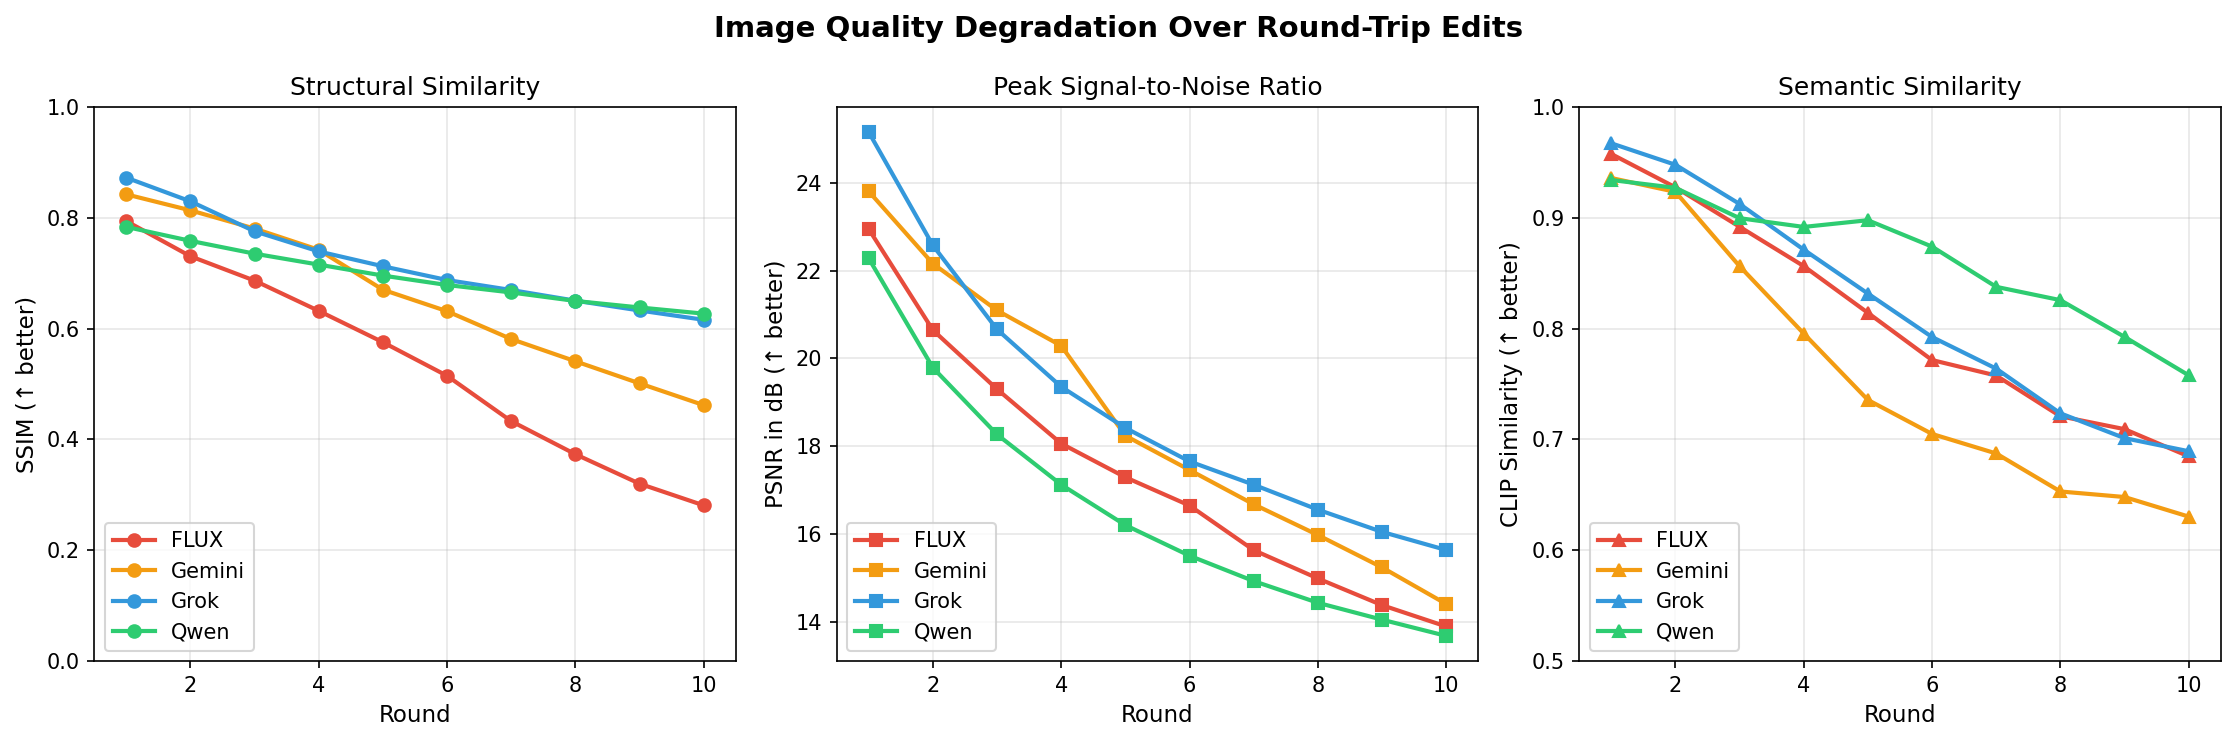
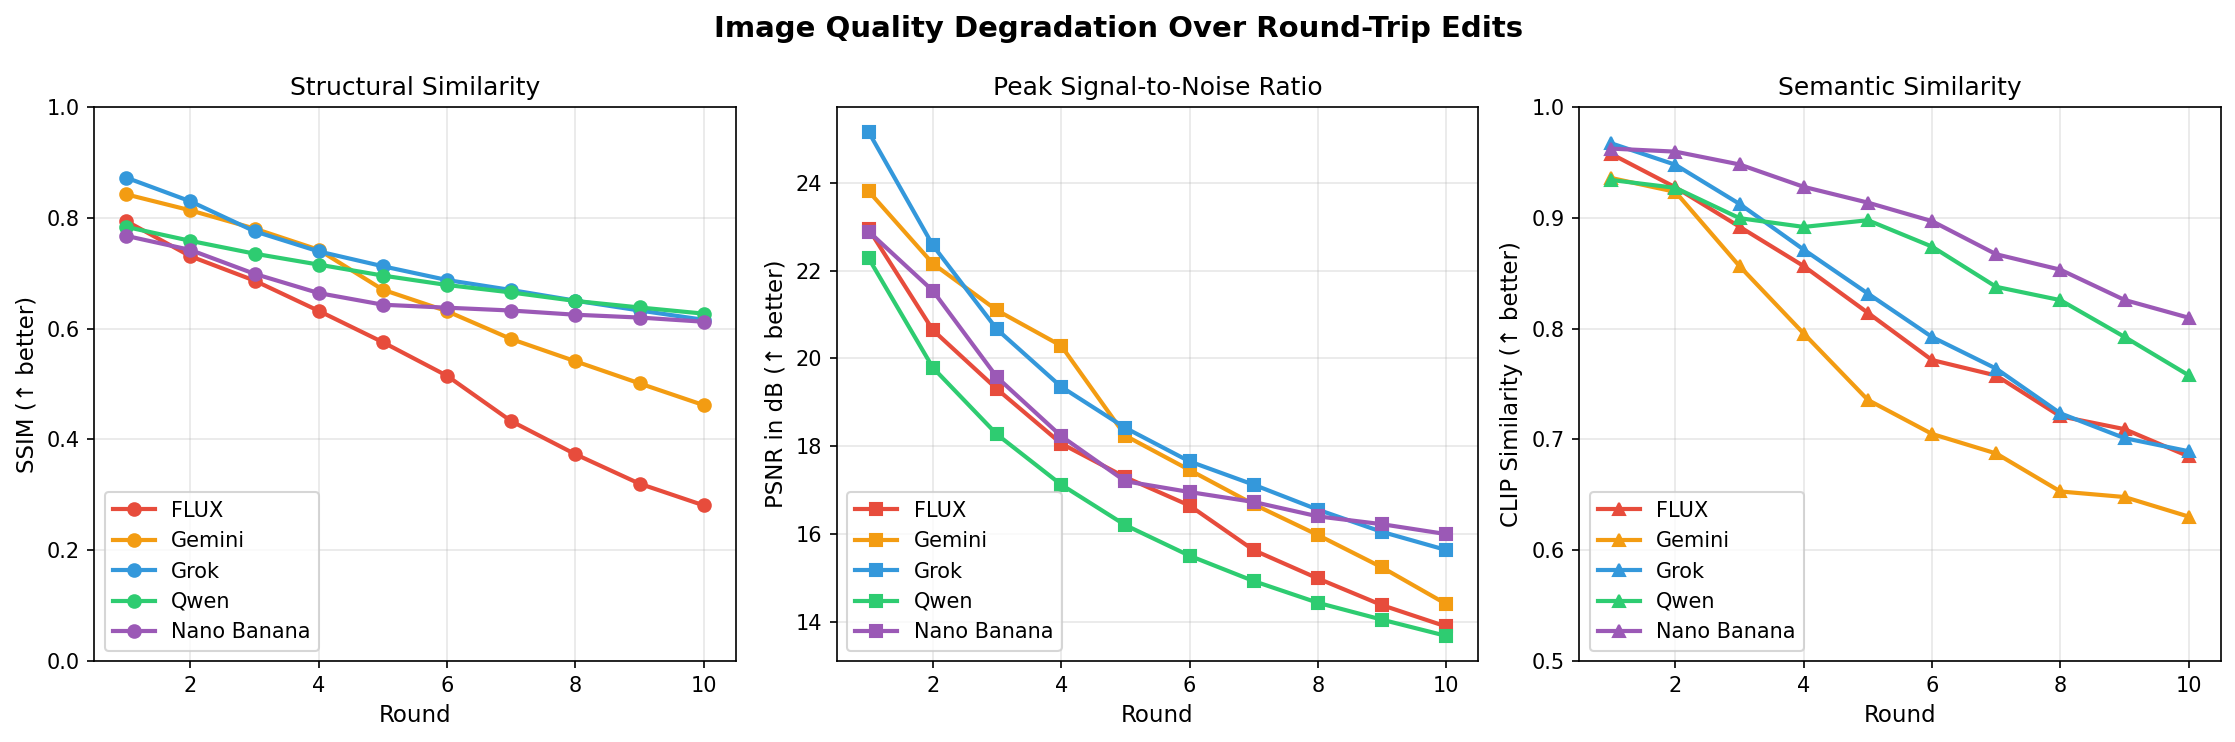
Update all visualizations to include Nano Banana
- comparison_grid_full.png: Now shows all 5 models × 6 experiments
- model_comparison_round10.png: Added Nano Banana column
- degradation_curves.png: Added Nano Banana (purple) curves
- model_timing_estimates.csv: Updated timing data

All scripts updated to include Nano Banana in model lists.

diff --git a/create_comparison_grid.py b/create_comparison_grid.py
@@ -1,5 +1,5 @@
 #!/usr/bin/env python3
-"""Create a comparison grid of round-trip editing results."""
+"""Create a comparison grid of round-trip editing results across all models."""
 
 from PIL import Image, ImageDraw, ImageFont
 import os
@@ -7,10 +7,17 @@ from pathlib import Path
 
 # Configuration
 BASE_DIR = Path(__file__).parent
-FLUX_DIR = BASE_DIR / "results_flux_10rounds"
-GEMINI_DIR = BASE_DIR / "results_gemini_10rounds"
 OUTPUT_DIR = BASE_DIR / "results_comparison"
 OUTPUT_DIR.mkdir(exist_ok=True)
+
+# Models with their directories
+MODELS = [
+    ("FLUX", "results_flux_10rounds"),
+    ("Gemini", "results_gemini_10rounds"),
+    ("Grok", "results_grok_10rounds"),
+    ("Qwen", "results_qwen_10rounds"),
+    ("Nano Banana", "results_nano-banana-edit_10rounds"),
+]
 
 # Columns: Original, Round 1, 2, 5, 10
 COLUMNS = [
@@ -21,28 +28,22 @@ COLUMNS = [
     ("Round 10", "I10_backward.png"),
 ]
 
-# Experiments to include (matching between both models)
+# Experiments to include
 EXPERIMENTS = [
     "portrait_01_glasses_add_remove",
     "portrait_01_hat_add_remove",
-    "portrait_02_glasses_add_remove",
     "portrait_02_hat_add_remove",
     "portrait_03_glasses_add_remove",
     "portrait_03_hat_add_remove",
     "scene_01_chair_add_remove",
-    "scene_01_red_ball_add_remove",
-    "scene_02_chair_add_remove",
-    "scene_02_red_ball_add_remove",
-    "scene_03_chair_add_remove",
-    "scene_03_red_ball_add_remove",
 ]
 
 # Grid settings
-THUMB_SIZE = 256
-PADDING = 10
-HEADER_HEIGHT = 40
-ROW_LABEL_WIDTH = 200
-FONT_SIZE = 20
+THUMB_SIZE = 180
+PADDING = 6
+HEADER_HEIGHT = 30
+ROW_LABEL_WIDTH = 140
+FONT_SIZE = 14
 
 def get_font(size=FONT_SIZE):
     """Try to get a decent font, fall back to default."""
@@ -62,7 +63,7 @@ def get_font(size=FONT_SIZE):
 def create_comparison_grid():
     """Create the full comparison grid."""
     n_cols = len(COLUMNS)
-    n_rows = len(EXPERIMENTS) * 2  # 2 models per experiment
+    n_rows = len(EXPERIMENTS) * len(MODELS)  # Each experiment × each model
     
     # Calculate dimensions
     grid_width = ROW_LABEL_WIDTH + n_cols * (THUMB_SIZE + PADDING) + PADDING
@@ -72,7 +73,7 @@ def create_comparison_grid():
     canvas = Image.new('RGB', (grid_width, grid_height), 'white')
     draw = ImageDraw.Draw(canvas)
     font = get_font()
-    small_font = get_font(14)
+    small_font = get_font(11)
     
     # Draw column headers
     for col_idx, (col_name, _) in enumerate(COLUMNS):
@@ -81,21 +82,20 @@ def create_comparison_grid():
         draw.text((x, y), col_name, fill='black', font=font, anchor='mm')
     
     # Draw rows
+    row_idx = 0
     for exp_idx, exp_name in enumerate(EXPERIMENTS):
-        # Two rows per experiment: Gemini and FLUX
-        for model_idx, (model_name, model_dir) in enumerate([("Gemini", GEMINI_DIR), ("FLUX", FLUX_DIR)]):
-            row_idx = exp_idx * 2 + model_idx
+        for model_idx, (model_name, model_dir) in enumerate(MODELS):
             y_base = HEADER_HEIGHT + row_idx * (THUMB_SIZE + PADDING) + PADDING
             
             # Row label
-            short_name = exp_name.replace("_add_remove", "").replace("_", " ")
-            label = f"{short_name}\n({model_name})"
+            short_exp = exp_name.replace("_add_remove", "").replace("_", " ")
+            label = f"{short_exp}\n({model_name})"
             label_y = y_base + THUMB_SIZE // 2
             draw.text((PADDING, label_y), label, fill='black', font=small_font, anchor='lm')
             
             # Images for each column
             for col_idx, (_, filename) in enumerate(COLUMNS):
-                img_path = model_dir / exp_name / filename
+                img_path = BASE_DIR / model_dir / exp_name / filename
                 x = ROW_LABEL_WIDTH + col_idx * (THUMB_SIZE + PADDING) + PADDING
                 
                 if img_path.exists():
@@ -116,6 +116,8 @@ def create_comparison_grid():
                                   outline='gray', width=1)
                     draw.text((x + THUMB_SIZE//2, y_base + THUMB_SIZE//2), 
                              "N/A", fill='gray', font=small_font, anchor='mm')
+            
+            row_idx += 1
     
     # Save
     output_path = OUTPUT_DIR / "comparison_grid_full.png"

diff --git a/plot_degradation_curves.py b/plot_degradation_curves.py
@@ -16,6 +16,7 @@ MODELS = {
     'Gemini': ('results_gemini_10rounds', '#F39C12'),  # Orange
     'Grok': ('results_grok_10rounds', '#3498DB'),      # Blue
     'Qwen': ('results_qwen_10rounds', '#2ECC71'),      # Green
+    'Nano Banana': ('results_nano-banana-edit_10rounds', '#9B59B6'),  # Purple
 }
 
 def load_metrics_by_round(result_dir, common_exps=None):

diff --git a/create_model_comparison.py b/create_model_comparison.py
@@ -17,6 +17,7 @@ MODELS = [
     ("Gemini", "results_gemini_10rounds"),
     ("Grok", "results_grok_10rounds"),
     ("Qwen", "results_qwen_10rounds"),
+    ("Nano Banana", "results_nano-banana-edit_10rounds"),
 ]
 
 # Representative experiments to show (that exist in most/all models)
